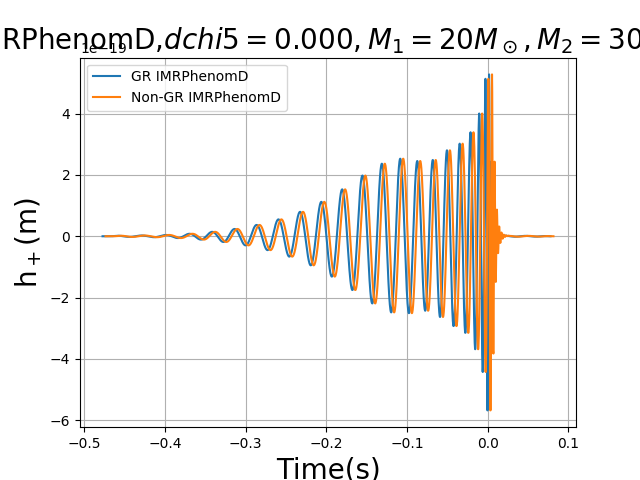
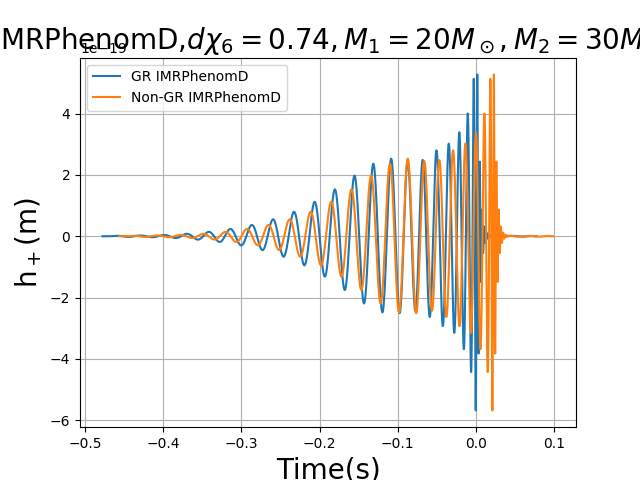
dchi5, dchi5l and dchi6l do not change the waveform at all for a system with M1 = 20, M2 = 30 and zero spin. dchi5 and dchi5l also don't work for sz1=sz2=0.5.

diff --git a/dchi5_test.py b/dchi5_test.py
@@ -1,0 +1,92 @@
+import numpy as np
+import pycbc
+import pycbc.waveform.waveform
+from pycbc.waveform import parameters
+from pycbc.waveform import td_approximants, fd_approximants
+from pycbc.filter import match
+from pycbc.psd import aLIGOZeroDetHighPower
+import matplotlib.pyplot as plt
+
+# get the default args:
+default_args = (parameters.fd_waveform_params.default_dict() + \
+    parameters.td_waveform_params).default_dict()
+
+q = default_args
+q['mass1'] = 20
+q['mass2'] = 30
+#q['spinz1'] = 0.5
+#q['spinz2'] = 0.5
+q['delta_t'] = 1./4096
+q['f_lower'] = 40
+q['approximant'] = 'IMRPhenomD'
+
+#hp, hc = pycbc.waveform.waveform._lalsim_td_waveform(**q)
+
+hp, hc = pycbc.waveform.waveform.get_td_waveform(**q)
+
+
+#########################################################
+##--------------------NON GR PARAMS--------------------##
+#########################################################
+
+p = default_args
+p['mass1'] = 20
+p['mass2'] = 30
+#p['spinz1'] = 0.5
+#p['spinz2'] = 0.5
+p['delta_t'] = 1./4096
+p['f_lower'] = 40
+p['approximant'] = 'IMRPhenomD'
+
+nGR = ['dchi0','dchi1','dchi2','dchi3','dchi4','dchi5']
+
+
+j = 0
+while True:
+	# Setting the non-GR parameter to have some value
+        p['dchi7'] = j
+
+        sp, sc = pycbc.waveform.waveform.get_td_waveform(**p)
+
+        # Define lower frequency
+        f_low = 40
+
+        # Resize the waveforms to the same length
+        tlen = max(len(sp), len(hp))
+        sp.resize(tlen)
+        hp.resize(tlen)
+
+        # Generate the aLIGO ZDHP PSD
+        delta_f = 1.0 / sp.duration
+        flen = tlen/2 + 1
+        psd = aLIGOZeroDetHighPower(flen, delta_f, f_low)
+
+        # Note: This takes a while the first time as an FFT plan is generated
+        # subsequent calls are much faster.
+        m, i = match(hp, sp, psd=psd, low_frequency_cutoff=f_low)
+
+        # Re-setting the non-GR parameter to zero.
+        #p[str(nonGR)] = 0
+	
+        print 'dchi7 = %.2f'%(j)
+	print 'Match = %.2f'%(m)
+	# If the match is less than 0.97 then break from the loop
+        if m < 0.97:
+        #	print 'Match < 0.97 for dchi5 = %.2f'%(j)
+                break
+       	
+	# Increasing the non-GR value
+       	j += 0.01
+
+'''
+Plotting and saving the waveforms
+'''
+plt.figure('dchi7')
+plt.plot(hp.sample_times, hp, label = 'GR IMRPhenomD')
+plt.plot(sp.sample_times, hp, label = 'Non-GR IMRPhenomD')
+plt.xlabel('Time(s)', fontsize = 20)
+plt.ylabel('h$_+$(m)', fontsize = 20)
+plt.title(('IMRPhenomD,$ d\chi_{7} = %.2f, M_1 = 20 M_\odot, M_2 = 30 M_\odot$'%(j)), fontsize = 20) # + '$S_{z1} = S_{z2} = 0.5 $'), fontsize = 20)
+plt.legend(loc = 'best')
+plt.grid()
+plt.savefig('dchi7'+'.png')

diff --git a/nonGR_IMRPhenomD.py b/nonGR_IMRPhenomD.py
@@ -38,7 +38,7 @@ p['delta_t'] = 1./4096
 p['f_lower'] = 40
 p['approximant'] = 'IMRPhenomD'
 
-nGR = ['dchi0','dchi1','dchi2','dchi3','dchi4','dchi5','dchi5l','dchi6','dchi6l','dchi7']#,'phi1',
+nGR = ['dchi0','dchi1','dchi2','dchi3','dchi4','dchi6','dchi7']#,'phi1',
 #'phi2','phi3','phi4','dxi1','dxi2','dxi3','dxi4','dxi5','dxi6','dsigma1','dsigma2','dsigma3',
 #'dsigma4','dalpha1','dalpha2','dalpha3','dalpha4','dalpha5','dbeta1','dbeta2','dbeta3','alphaPPE',
 #'alphaPPE0','alphaPPE1','alphaPPE2','alphaPPE3','alphaPPE4','alphaPPE5','alphaPPE6','alphaPPE7',
